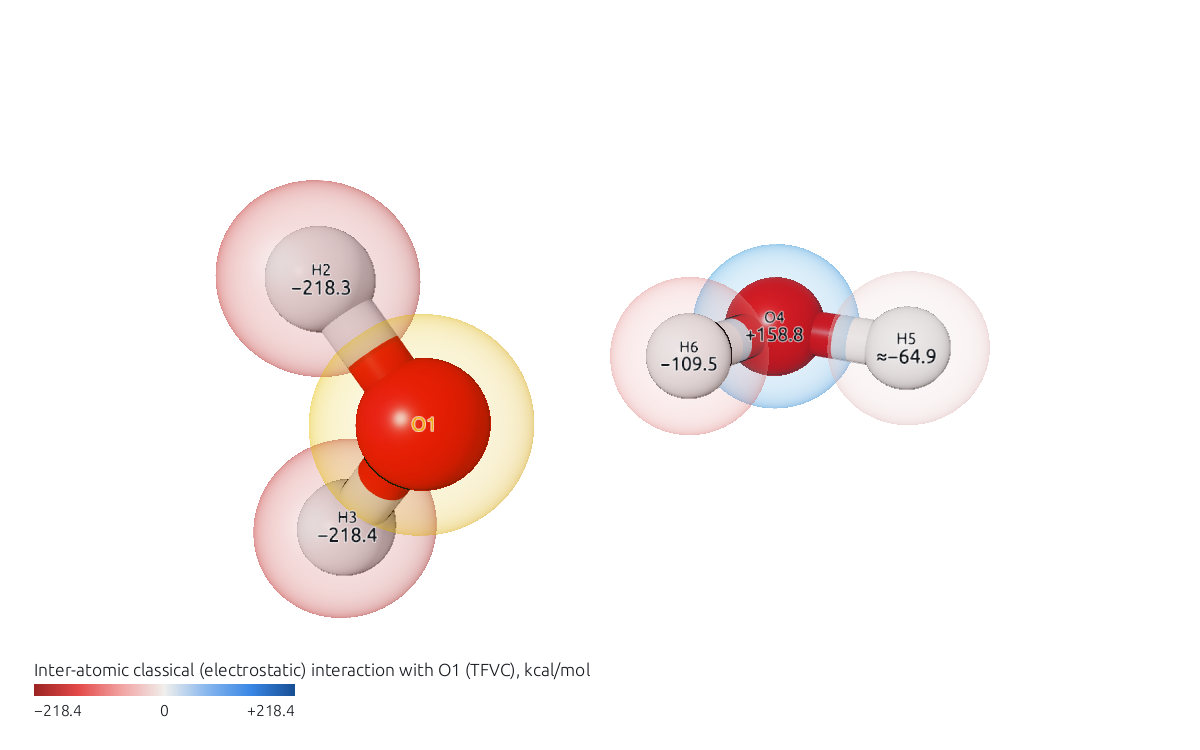
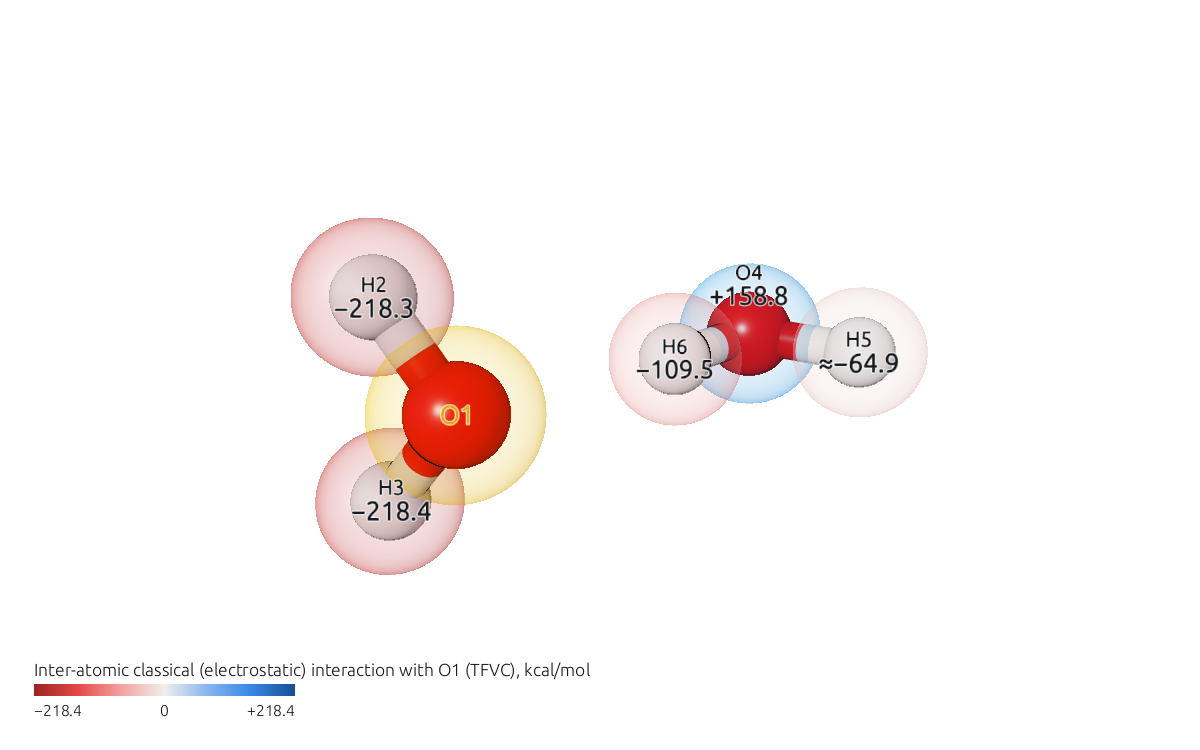
Labels in exports keep the screen's proportions, stay inside the picture, and are larger by default
Measurement and value labels were drawn at screen pixels whatever the
image size: a 1000-DPI single-column figure (3250 px) had them at a
third of their size on screen. They now scale with the image's height,
as the legend did, and a label pushed out of the picture is moved back
in. New defaults: value labels 34 px (was 26), values on atoms 0.85 of
that (0.72), measurement labels 30 px (24). The guide's pictures are
regenerated.

Changed region(s): [[0.1542, 0.2147, 0.4625, 0.828], [0.5242, 0.3067, 0.8325, 0.5827], [0.7092, 0.552, 0.7708, 0.5827]]

diff --git a/crates/app/src/labels.rs b/crates/app/src/labels.rs
@@ -42,6 +42,9 @@ pub(crate) const VALUE_LABEL_EDGE: f32 = 0.40;
 const MIN_VISIBLE_FRACTION: f32 = 0.3;
 /// A name above a value is this much smaller than the value.
 const NAME_OVER_VALUE: f32 = 0.8;
+/// A value on an atom, against one on a fragment (atoms are smaller and
+/// closer together).
+const ATOM_VALUE_SIZE: f32 = 0.85;
 /// An atom name may be this much wider than its atom before it shrinks,
 /// and shrinks at most to this fraction of its size.
 const NAME_WIDTH_PER_DIAMETER: f32 = 1.6;
@@ -87,10 +90,17 @@ impl App {
     /// `0, 0, width, height` for an export), placed so none overlaps, as
     /// glyphs drawn on top. Also where each measurement label landed on
     /// screen, for dragging it in the live view.
+    ///
+    /// Text sizes (measurement and value labels, in pixels of the live
+    /// view) are scaled with the view's height against the live view's, so
+    /// an export of any size shows the labels as large, against the
+    /// molecule, as the screen does (before, a 3250 px figure had them at
+    /// screen pixels, a third of the size), the same as the legend.
     pub(crate) fn scene_labels(&self, active: usize, camera: &OrbitCamera, viewport: Rect) -> SceneLabels {
         let structure = &self.structures[active];
         let molecule = &structure.molecule;
         let aspect = viewport.width() / viewport.height().max(1.0);
+        let text_scale = viewport.height() / self.last_viewport_height.max(1.0);
         let eye = camera.eye();
         let (right, up) = camera.screen_basis();
         let world_per_px = |p: Vec3| camera.world_units_per_pixel((p - eye).length(), viewport.height());
@@ -110,7 +120,7 @@ impl App {
         for (index, measurement) in structure.measurements.iter().enumerate() {
             let anchor = measurement_anchor(molecule, measurement.kind);
             let wpp = world_per_px(anchor);
-            let px = self.measurement_style.font_size;
+            let px = self.measurement_style.font_size * text_scale;
             let text = format_measurement(measurement.kind, measure(molecule, measurement.kind), self.coordinate_unit, self.measurement_style.decimal_places);
             let scale = glyph_scale_for_font_size(px, wpp);
             let (width, height) = label_extent(&self.glyph_atlas, &text, scale);
@@ -119,8 +129,8 @@ impl App {
             let clearance = match measurement.kind {
                 MeasurementKind::Angle(_, v, _) => crate::util::drawn_radius(molecule.atomic_numbers[v], self.material.atom_scale) / wpp,
                 _ => self.material.bond_radius / wpp,
-            } + 4.0;
-            let shift = measurement_shift(measurement.kind, molecule, &project, molecule_center, size, clearance) + measurement.label_offset;
+            } + 4.0 * text_scale;
+            let shift = measurement_shift(measurement.kind, molecule, &project, molecule_center, size, clearance) + measurement.label_offset * text_scale;
             pending.push(Pending {
                 anchor,
                 shift,
@@ -154,7 +164,7 @@ impl App {
                 };
                 let Some(position) = label_position(label.anchor, results, molecule, self.material.atom_scale, eye) else { continue };
                 let wpp = world_per_px(position);
-                let px = if on_atom { view.label_size * 0.72 } else { view.label_size };
+                let px = text_scale * if on_atom { view.label_size * ATOM_VALUE_SIZE } else { view.label_size };
                 let focus = label.color == FOCUS_COLOR;
                 let color = if label.color == [0.0; 3] { ink } else { label.color };
                 let line = |text: String, px: f32, color: [f32; 3]| Line {
@@ -244,8 +254,17 @@ impl App {
         let mut hits = Vec::new();
         let mut placed_boxes = Vec::new();
         for (&i, offset) in shown.iter().zip(placed) {
-            let Some(offset) = offset else { continue };
+            let Some(mut offset) = offset else { continue };
             let (p, request) = (&pending[i], requests[i].unwrap());
+            // Kept inside the view (a label pushed out from the molecule's
+            // center could leave the picture), a few pixels from its edge.
+            let margin = 4.0 * text_scale;
+            let inside = viewport.shrink(margin);
+            let rect = Rect::from_center_size(request.center + offset, sizes[i]);
+            if rect.width() <= inside.width() && rect.height() <= inside.height() {
+                offset.x += (inside.left() - rect.left()).max(0.0) - (rect.right() - inside.right()).max(0.0);
+                offset.y += (inside.top() - rect.top()).max(0.0) - (rect.bottom() - inside.bottom()).max(0.0);
+            }
             let shift = p.shift + offset;
             let center = p.anchor + right * (shift.x * p.world_per_px) - up * (shift.y * p.world_per_px);
             let mut y = -sizes[i].y / 2.0;

diff --git a/crates/app/tests/guide.rs b/crates/app/tests/guide.rs
@@ -209,7 +209,6 @@ fn tour() {
 
     let mut guide = open_example("H2O-CAS44");
     click(&mut guide, "Surfaces");
-    click(&mut guide, "Clear");
     click(&mut guide, "Total density");
     click(&mut guide, "Generate 1 surface(s)");
     assert_eq!(guide.state().surface_labels(), vec![("Total density (CASSCF)".to_string(), true)]);
@@ -263,7 +262,6 @@ fn orbitals_and_densities() {
 
     let mut guide = open(vec![validation("gaussian/H2O-T-ccpVTZ.fchk")]);
     click(&mut guide, "Orbitals...");
-    click(&mut guide, "Clear");
     click(&mut guide, "Total density");
     click(&mut guide, "Spin density");
     click(&mut guide, "Generate 2 surface(s)");
@@ -343,7 +341,7 @@ fn local_spin() {
 #[test]
 fn energy_decomposition() {
     let mut guide = open_example("H2O-Dimer-B3LYP");
-    frame(&mut guide, 0.0, 0.0, 0.5);
+    frame(&mut guide, 0.0, 0.0, 0.6);
     choose(&mut guide, "Nothing", "Inter-fragment interaction energy (TFVC)");
     settle(&mut guide);
     snap_figure(&mut guide, "iqa-fragments", 1200, 750);
@@ -394,7 +392,7 @@ fn making_an_input() {
     let fchk = dir.join("FeCN5NO3.fchk");
     std::fs::copy(example("FeCN5NO3--UBLYP").join("FeCN5NO3--UBLYP.fchk"), &fchk).unwrap();
     let mut guide = open(vec![fchk]);
-    frame(&mut guide, 0.0, 0.45, 1.6);
+    frame(&mut guide, 0.0, 0.45, 1.0);
     click(&mut guide, "APOST-3D input...");
     for label in ["Results", "New input", "Atoms in molecules", "Analyses", "Effective oxidation states", "Separate molecules", "Input file", "Copy input"] {
         sees(&guide, label);

diff --git a/crates/app/src/app.rs b/crates/app/src/app.rs
@@ -110,6 +110,9 @@ pub struct App {
     /// since it doesn't have direct access to the viewport rect) so the
     /// DPI preset can derive its height from the current on-screen view.
     pub(crate) last_aspect_ratio: f32,
+    /// The live view's height in points, updated with `last_aspect_ratio`:
+    /// what exports scale their labels against (`scene_labels`).
+    pub(crate) last_viewport_height: f32,
 
     /// Isosurface lighting response — deliberately separate from
     /// `material` (the atom/bond one), shared across every structure the
@@ -242,6 +245,7 @@ impl App {
             render_export: RenderExportState::default(),
             orbital_generation: OrbitalGenerationState::default(),
             last_aspect_ratio: 16.0 / 9.0,
+            last_viewport_height: 860.0,
             isosurface_material: IsosurfaceMaterial::default(),
             ao_enabled: true,
             ao_settings: AoSettings::default(),

diff --git a/crates/app/src/state.rs b/crates/app/src/state.rs
@@ -33,7 +33,7 @@ pub(crate) struct MeasurementStyle {
 impl Default for MeasurementStyle {
     fn default() -> Self {
         Self {
-            font_size: 24.0,
+            font_size: 30.0,
             decimal_places: 2,
             text_color: Color32::from_rgb(20, 20, 20),
             line_color: [0.05, 0.05, 0.05],

diff --git a/crates/app/src/viewport.rs b/crates/app/src/viewport.rs
@@ -127,6 +127,7 @@ impl App {
 
         let aspect_ratio = if rect.height() > 0.0 { rect.width() / rect.height() } else { 1.0 };
         self.last_aspect_ratio = aspect_ratio;
+        self.last_viewport_height = rect.height();
 
         let mut selection_box = None;
         if let Some(start) = self.box_select_start {

diff --git a/crates/app/src/results_view.rs b/crates/app/src/results_view.rs
@@ -140,7 +140,7 @@ impl ResultsView {
             focus: 0,
             labels: true,
             decimals: None,
-            label_size: 26.0,
+            label_size: 34.0,
             bond_thickness: false,
             log_scale: false,
             energy_unit: EnergyUnit::default(),
